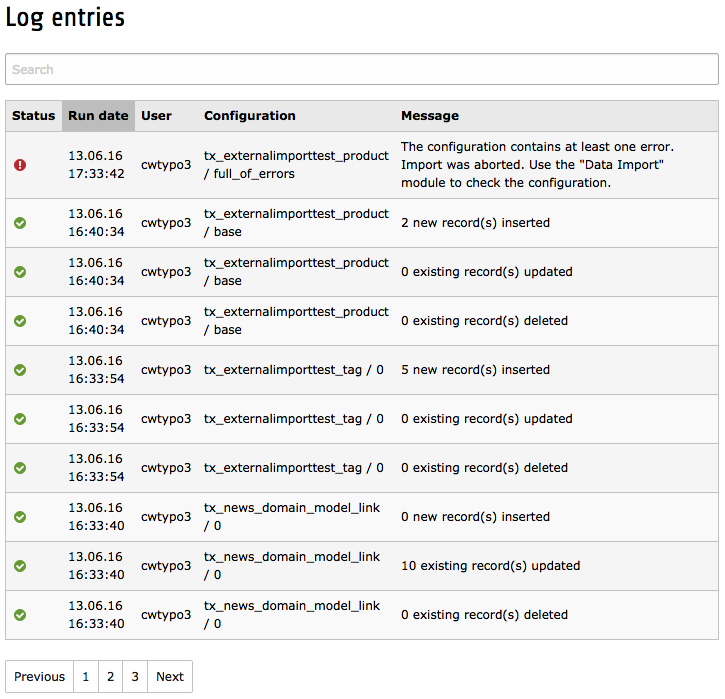
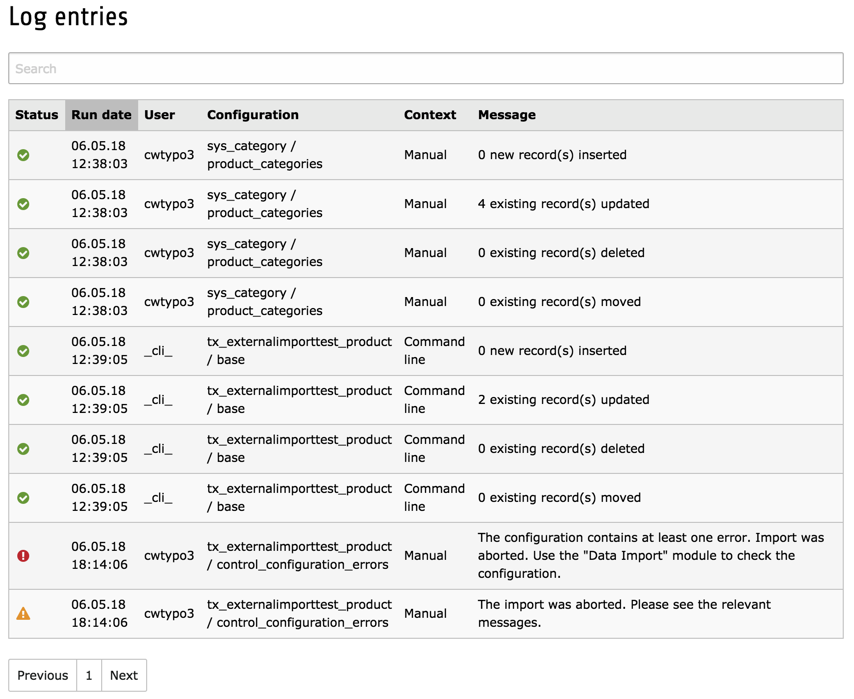
[FEATURE] Add execution context to import process, resolves #27

diff --git a/Resources/Public/JavaScript/LogModule.js b/Resources/Public/JavaScript/LogModule.js
@@ -98,6 +98,32 @@ define(['jquery',
 							data: 'configuration'
 						},
 						{
+							targets: 'log-context',
+							data: 'context',
+							render:  function(data, type, row, meta) {
+								var label = '';
+								if (data) {
+									switch (data) {
+										case 'manual':
+											label = TYPO3.lang.contextManual;
+											break;
+										case 'cli':
+											label = TYPO3.lang.contextCli;
+											break;
+										case 'scheduler':
+											label = TYPO3.lang.contextScheduler;
+											break;
+										case 'api':
+											label = TYPO3.lang.contextApi;
+											break;
+										default:
+											label = TYPO3.lang.contextOther;
+									}
+								}
+								return label;
+							}
+						},
+						{
 							targets: 'log-message',
 							data: 'message'
 						}

diff --git a/Resources/Private/Templates/LogModule/List.html b/Resources/Private/Templates/LogModule/List.html
@@ -30,6 +30,9 @@
 					<th class="log-configuration">
 						<f:translate id="logConfiguration" />
 					</th>
+					<th class="log-context">
+						<f:translate id="logContext" />
+					</th>
 					<th class="log-message">
 						<f:translate id="logMessage" />
 					</th>

diff --git a/Classes/Controller/LogModuleController.php b/Classes/Controller/LogModuleController.php
@@ -77,8 +77,10 @@ class LogModuleController extends ActionController
         if ($view instanceof BackendTemplateView) {
             parent::initializeView($view);
         }
-        $view->getModuleTemplate()->getPageRenderer()->addCssFile('EXT:external_import/Resources/Public/StyleSheet/ExternalImport.css');
-        $this->view->getModuleTemplate()->getPageRenderer()->loadRequireJsModule('TYPO3/CMS/ExternalImport/LogModule');
+        $pageRenderer = $view->getModuleTemplate()->getPageRenderer();
+        $pageRenderer->addCssFile('EXT:external_import/Resources/Public/StyleSheet/ExternalImport.css');
+        $pageRenderer->loadRequireJsModule('TYPO3/CMS/ExternalImport/LogModule');
+        $pageRenderer->addInlineLanguageLabelFile('EXT:external_import/Resources/Private/Language/JavaScript.xlf');
     }
 
     /**
@@ -101,7 +103,7 @@ class LogModuleController extends ActionController
     public function getAction(ServerRequestInterface $request, ResponseInterface $response)
     {
         // Methods that respond to AJAX calls do not go through the normal Extbase bootstrapping.
-        // Thus some objects to be instantiated "manually".
+        // Thus some objects need to be instantiated "manually".
         $this->objectManager = GeneralUtility::makeInstance(ObjectManager::class);
         $this->logRepository = $this->objectManager->get(LogRepository::class);
 
@@ -115,6 +117,7 @@ class LogModuleController extends ActionController
                 'date' => $logEntry->getCrdate()->format('U'),
                 'user' => $logEntry->getCruserId()->getUserName(),
                 'configuration' => $logEntry->getConfiguration(),
+                'context' => $logEntry->getContext(),
                 'message' => $logEntry->getMessage()
             );
         }

diff --git a/Tests/Unit/ImporterTest.php b/Tests/Unit/ImporterTest.php
@@ -1,0 +1,63 @@
+<?php
+
+namespace Cobweb\ExternalImport\Tests\Unit;
+
+/*
+ * This file is part of the TYPO3 CMS project.
+ *
+ * It is free software; you can redistribute it and/or modify it under
+ * the terms of the GNU General Public License, either version 2
+ * of the License, or any later version.
+ *
+ * For the full copyright and license information, please read the
+ * LICENSE.txt file that was distributed with this source code.
+ *
+ * The TYPO3 project - inspiring people to share!
+ */
+
+use Cobweb\ExternalImport\Importer;
+use Nimut\TestingFramework\TestCase\UnitTestCase;
+
+/**
+ * Test case for the External Import importer.
+ *
+ * @author Francois Suter <typo3@cobweb.ch>
+ * @package TYPO3
+ * @subpackage tx_externalimport
+ */
+class ImporterTest extends UnitTestCase
+{
+
+    /**
+     * @var Importer
+     */
+    protected $subject = null;
+
+    protected function setUp()
+    {
+        // Note: the Importer class normally needs to be instanciated via the ObjectManager,
+        // but we don't need all the dependency injection for unit tests.
+        $this->subject = \TYPO3\CMS\Core\Utility\GeneralUtility::makeInstance(Importer::class);
+    }
+
+    /**
+     * @test
+     */
+    public function getContextInitiallyReturnsManualContext() {
+        self::assertSame(
+                'manual',
+                $this->subject->getContext()
+        );
+    }
+
+    /**
+     * @test
+     */
+    public function setContextSetsContext() {
+        $this->subject->setContext('cli');
+        self::assertSame(
+                'cli',
+                $this->subject->getContext()
+        );
+    }
+}

diff --git a/Classes/Importer.php b/Classes/Importer.php
@@ -79,6 +79,11 @@ class Importer
     protected $temporaryKeys = array();
 
     /**
+     * @var string
+     */
+    protected $context = 'manual';
+
+    /**
      * @var array List of default steps for the synchronize data process
      */
     public const SYNCHRONYZE_DATA_STEPS = array(
@@ -260,6 +265,8 @@ class Importer
     {
         // Initialize message array
         $this->resetMessages();
+        // Set context to API no matter what
+        $this->setContext('api');
         try {
             $this->initialize(
                     $table,
@@ -561,5 +568,25 @@ class Importer
     public function setForcedStoragePid($pid)
     {
         $this->forcedStoragePid = (int)$pid;
+    }
+
+    /**
+     * Returns the current execution context.
+     *
+     * @return string
+     */
+    public function getContext()
+    {
+        return $this->context;
+    }
+
+    /**
+     * Sets the execution context.
+     *
+     * @param $context
+     */
+    public function setContext($context)
+    {
+        $this->context = $context;
     }
 }

diff --git a/Classes/Utility/ReportingUtility.php b/Classes/Utility/ReportingUtility.php
@@ -120,10 +120,12 @@ class ReportingUtility
      * Stores the messages to the external_import log.
      *
      * @return void
+     * @throws \TYPO3\CMS\Extbase\Persistence\Exception\IllegalObjectTypeException
      */
     public function writeToLog()
     {
         $messages = $this->importer->getMessages();
+        $context = $this->importer->getContext();
         foreach ($messages as $status => $messageList) {
             foreach ($messageList as $message) {
                 /** @var Log $logEntry */
@@ -139,6 +141,7 @@ class ReportingUtility
                 $logEntry->setConfiguration(
                         $this->importer->getExternalConfiguration()->getTable() . ' / ' . $this->importer->getExternalConfiguration()->getIndex()
                 );
+                $logEntry->setContext($context);
                 $logEntry->setMessage($message);
                 $this->logRepository->add($logEntry);
             }

diff --git a/Configuration/TCA/tx_externalimport_domain_model_log.php b/Configuration/TCA/tx_externalimport_domain_model_log.php
@@ -58,6 +58,16 @@ return array(
                                 'eval' => 'trim, required'
                         )
                 ),
+                'context' => array(
+                        'exclude' => 0,
+                        'label' => 'LLL:EXT:external_import/Resources/Private/Language/locallang_db.xlf:tx_externalimport_domain_model_log.configuration',
+                        'config' => array(
+                                'readOnly' => true,
+                                'type' => 'input',
+                                'max' => 50,
+                                'eval' => 'trim, required'
+                        )
+                ),
                 'message' => array(
                         'exclude' => 0,
                         'label' => 'LLL:EXT:external_import/Resources/Private/Language/locallang_db.xlf:tx_externalimport_domain_model_log.message',

diff --git a/Classes/Domain/Model/Log.php b/Classes/Domain/Model/Log.php
@@ -47,6 +47,11 @@ class Log extends AbstractEntity
     protected $configuration;
 
     /**
+     * @var string Execution context
+     */
+    protected $context;
+
+    /**
      * @var string The log message
      */
     protected $message;
@@ -113,6 +118,22 @@ class Log extends AbstractEntity
     public function setConfiguration($configuration)
     {
         $this->configuration = $configuration;
+    }
+
+    /**
+     * @return string
+     */
+    public function getContext()
+    {
+        return $this->context;
+    }
+
+    /**
+     * @param string $context
+     */
+    public function setContext(string $context)
+    {
+        $this->context = $context;
     }
 
     /**

diff --git a/Classes/Task/AutomatedSyncTask.php b/Classes/Task/AutomatedSyncTask.php
@@ -55,6 +55,7 @@ class AutomatedSyncTask extends AbstractTask
         $objectManager = GeneralUtility::makeInstance(ObjectManager::class);
         /** @var $importer Importer */
         $importer = $objectManager->get(Importer::class);
+        $importer->setContext('scheduler');
         // Get the extension's configuration from the importer object
         $extensionConfiguration = $importer->getExtensionConfiguration();
         // Synchronize all tables

diff --git a/Classes/Command/ImportCommand.php b/Classes/Command/ImportCommand.php
@@ -104,6 +104,7 @@ class ImportCommand extends Command
             $this->printConfigurationList($io);
         } else {
             $importer = $this->objectManager->get(Importer::class);
+            $importer->setContext('cli');
             $all = $input->getOption('all');
             $table = $input->getOption('table');
             $index = $input->getOption('index');

diff --git a/Classes/Controller/DataModuleController.php b/Classes/Controller/DataModuleController.php
@@ -208,6 +208,7 @@ class DataModuleController extends ActionController
         // Synchronize the chosen data
         /** @var Importer $importer */
         $importer = $this->objectManager->get(Importer::class);
+        $importer->setContext('manual');
         $messages = $importer->synchronize($table, $index);
 
         // Perform reporting

diff --git a/Documentation/Developer/Api/Index.rst b/Documentation/Developer/Api/Index.rst
@@ -126,6 +126,12 @@ getExtensionConfiguration
 getExternalConfiguration
   Get the current instance of the :ref:`Configuration model <developer-api-configuration-model>`.
 
+setContext/getContext
+  Define or retrieve the execution context. This is mostly informative and is used to set a
+  context for the log entries. Expected values are "manual", "cli", "scheduler" and "api".
+  Any other value can be set, but will not be interpreted by the External Import extension.
+  In the Log module, such values will be displayed as "Other".
+
 and a few more which are not as significant and can be explored by
 anyone interested straight in the source code.
 
